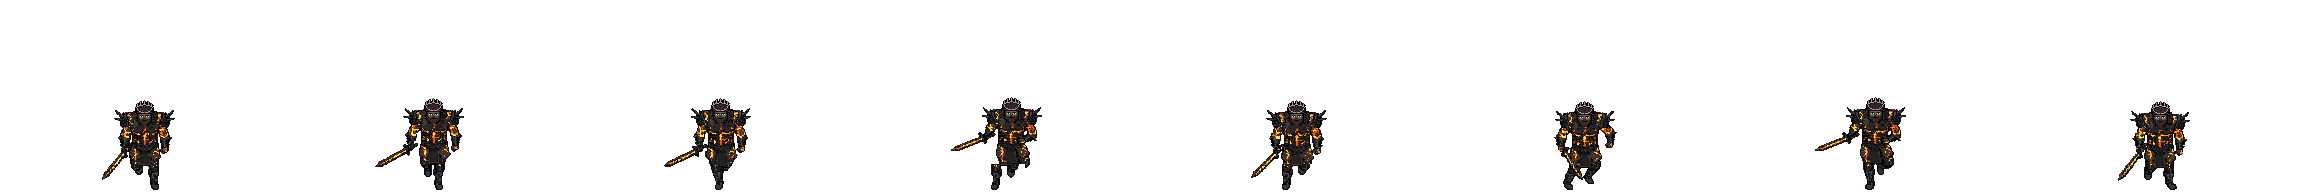
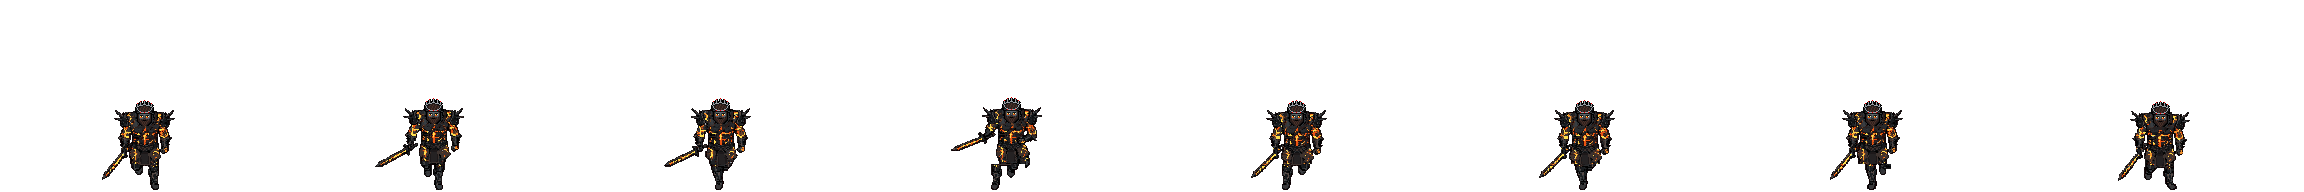
Art: the boss's walks and runs review fix: one sword, feet that travel, one head per view (Task A3)
- Side walk and side run remade with Higgsfield (4 pictures, 6 credits) over new guides B31/B32 with the
  greatsword carried off his legs: one sword in every frame, and each cycle built from Gemini's figures in
  step order so the planted boot moves back frame by frame (run: contact, passing, flight, reach; flights
  4 px off the floor).
- Back run: frame 1 gets frame 0's sword; frame 5's boots back on the floor (headlock.py --floor-half).
- Front run: frames 5-6 take bodies 8 and 9, so the sword no longer pops across his legs.
- Front walk: the blade swings 10 degrees out and in with each step.
- Back views: one head (the back run's hair under the idle's crown, spikes, red tips and gems) for the run
  and the walk; side views share the walk's head with red tips (head_B.png, head_S.png).
- Runs at 14 fps (the side's planted boot moves 12 px a frame: his pace, 5.28 m/s).
- New: art/tools/rekey.py (non-magenta backgrounds), headlock.py --align and --floor-half, and a cleaner
  removal of a frame's own head round the pasted one.

Changed region(s): [[0.7812, 0.5312, 0.8438, 0.9375], [0.6562, 0.5625, 0.7188, 1.0]]

diff --git a/art/tools/headlock.py b/art/tools/headlock.py
@@ -30,6 +30,10 @@
 #   away). --thick: the lowest pixel means the lowest row with 3 or more pixels side by side (a boot, not the spear's
 #   butt). --air K:N,K:N: then frame K's feet N px above that row (a flight frame; or the front and back runs' passing
 #   frames standing on the feet line N rows above a forward foot that reaches toward the camera: give the key "below": N).
+#   --floor-half W: only columns within W px of the head count for that lowest pixel (front and back views: a sword tip
+#   lower than the boots then stays below the line instead of lifting the boots off it).
+#   --align FILE:FRAME:X0,Y0,X1,Y1: find each frame's head with that head instead (one of the sheet's own heads, at the
+#   same spot in its cell as --src's): a --src head redrawn by hand (the idle's crown on a back view) matches badly.
 #   --pad N: how far round the pasted head the frame's own head pixels are cleared (3). Self-check: headlock.py --selftest
 import argparse, math, os, sys
 import numpy as np
@@ -131,7 +135,9 @@ def lock(f, st, dx, dy, front=None, pad=3, clear=None):
         size = ndimage.sum(dark, lab, range(1, n + 1))
         gone |= np.isin(lab, 1 + np.nonzero(size < 20)[0])     # scraps of its own outline (a fist or the spear is bigger)
     out = f.copy()
-    edge = gone & ndimage.binary_dilation(~on, FOUR)
+    lab, _ = ndimage.label(gone | ~on, FOUR)    # its own head sticking out goes, even 2 px deep (an outline 1 px in)
+    ext = np.unique(lab[~on])
+    edge = gone & np.isin(lab, ext[ext > 0])
     out[edge] = 0
     hole = gone & ~edge
     keep = (out[..., 3] > 0) & ~hole
@@ -159,15 +165,19 @@ def main():
     p.add_argument('--mane'); p.add_argument('--clear'); p.add_argument('--chest')
     p.add_argument('--pad', type=int, default=3); p.add_argument('--floor', type=int); p.add_argument('--sink', type=int)
     p.add_argument('--thick', action='store_true'); p.add_argument('--air'); p.add_argument('--bob-max', type=int)
+    p.add_argument('--floor-half', type=int); p.add_argument('--align')
     A = p.parse_args()
     ints = lambda s: [int(v) for v in s.split(',')] if s else None
     cw, ch = ints(A.cell); box = ints(A.box)
     src = np.asarray(Image.open(A.src).convert('RGBA'))[:ch, A.src_frame * cw:(A.src_frame + 1) * cw]
     line = lambda s: [float(v) for v in s.split(',')] if s else None
-    head = stamp_of(src, box, A.luma, line(A.mend), line(A.cut))
+    head = stamp_of(src, box, A.luma, line(A.mend), line(A.cut)); found = head
+    if A.align:                                 # FILE:FRAME:X0,Y0,X1,Y1, a head drawn like the sheet's, at --src's spot
+        af, ak, ab = A.align.split(':'); ak = int(ak)
+        found = stamp_of(np.asarray(Image.open(af).convert('RGBA'))[:ch, ak * cw:(ak + 1) * cw], ints(ab))
     a = np.asarray(Image.open(A.sheet).convert('RGBA')).copy(); n = a.shape[1] // cw
     fs = [defringe(a[:, k * cw:(k + 1) * cw], A.fringe) if A.fringe else a[:, k * cw:(k + 1) * cw] for k in range(n)]
-    offs = [align(f, head, A.search) for f in fs]; stamps = []
+    offs = [align(f, found, A.search) for f in fs]; stamps = []
     if A.mane:                                  # frame K's mane, moved into the source's place (the head's offsets)
         mx0, my0, mx1, my1, mk, ms, mf = line(A.mane); mk = int(mk)
         mane = shift(mane_of(fs[mk], [int(mx0), int(my0), int(mx1), int(my1)], ms), -offs[mk][0], -offs[mk][1])
@@ -192,7 +202,10 @@ def main():
     if A.floor is not None:
         air = {int(k): int(v) for k, v in (kv.split(':') for kv in A.air.split(','))} if A.air else {}
         for k in range(n):
-            f = a[:, k * cw:(k + 1) * cw]; d = A.floor - air.get(k, 0) - feet_row(f, A.thick)
+            f = a[:, k * cw:(k + 1) * cw]; g = f
+            if A.floor_half:                    # only the boots count: a blade tip further out may go below the line
+                c = offs[k][0] + (box[0] + box[2]) // 2; g = f[:, max(0, c - A.floor_half):c + A.floor_half + 1]
+            d = A.floor - air.get(k, 0) - feet_row(g, A.thick)
             if feet_row(f, False) + d > ch - 1:
                 print('frame', k, 'WARNING:', feet_row(f, False) + d - ch + 1, 'rows pushed out of the cell')
             a[:, k * cw:(k + 1) * cw] = shift(f, 0, d); drop[k] += d

diff --git a/art/tools/rekey.py b/art/tools/rekey.py
@@ -1,0 +1,38 @@
+# A Higgsfield strip whose background came back grey, lilac, pink or a white-pink gradient instead of #FF00FF -> the same
+# strip on flat #FF00FF, so sprites.py keys it out. The background is every light, unsaturated or pinkish pixel joined to
+# the picture's border, and any near-white patch bigger than a catch-light (background seen through a gap); the figures'
+# dark 1 px outline closes them off, so their lava (saturated orange, little blue) stays.
+# Usage: uv run --with pillow --with numpy --with scipy python art/tools/rekey.py <raw.png> <out.png>   (--selftest checks it)
+import sys
+import numpy as np
+from PIL import Image
+from scipy import ndimage
+
+
+def rekey(a):
+    a = a[..., :3].astype(int); r, g, b = a[..., 0], a[..., 1], a[..., 2]
+    light = (a @ [30, 59, 11]) / 100 > 100
+    cand = light & ((a.max(-1) - a.min(-1) < 60) | ((r > 140) & (b > 140) & (g < np.minimum(r, b))))
+    lab, _ = ndimage.label(cand)
+    edge = np.unique(np.concatenate([lab[0], lab[-1], lab[:, 0], lab[:, -1]]))
+    bg = np.isin(lab, edge[edge > 0])
+    L = (a @ [30, 59, 11]) / 100; idx = np.arange(1, lab.max() + 1)
+    size, lum = ndimage.sum(cand, lab, idx), ndimage.mean(L, lab, idx)
+    bg |= np.isin(lab, idx[(size > 80) & (lum > 200)])     # background seen through a gap (arm and body), not an eye's catch-light
+    out = a.copy(); out[bg] = (255, 0, 255)
+    return out.astype(np.uint8), bg.mean()
+
+
+def selftest():
+    a = np.full((20, 20, 3), (215, 150, 210), np.uint8); a[5:15, 5:15] = (10, 10, 10); a[8:12, 8:12] = (250, 220, 80)
+    o, f = rekey(a)
+    assert (o[0, 0] == (255, 0, 255)).all() and (o[10, 10] == (250, 220, 80)).all() and (o[5, 5] == (10, 10, 10)).all()
+    print('selftest ok')
+
+
+if __name__ == '__main__':
+    if '--selftest' in sys.argv:
+        selftest()
+    else:
+        o, f = rekey(np.asarray(Image.open(sys.argv[1]).convert('RGB')))
+        Image.fromarray(o).save(sys.argv[2]); print('background %.0f%% of the picture' % (100 * f))

diff --git a/docs/PROGRESS.md b/docs/PROGRESS.md
@@ -47,28 +47,38 @@ The 2.5D pixel-art version of Tales of Vulcan, in the style of Alabaster Dawn, w
 ![Elvis's walks, front, side and back, 4x](progress/2026-10-25_elvis_walks.gif)
 ![The new back run in the game, 3x crops of frames 100-175 of the bot's fight](progress/2026-10-25_elvis_run_B_in_game_fix.png)
 
-### 25 Oct 2026: the possessed Vulcan runs and walks in all three views (Task A3, Higgsfield)
+### 25 Oct 2026: the possessed Vulcan runs and walks in all three views (Task A3, Higgsfield; review fix: one sword, feet that travel, one head per view)
+- **Review fix (evening):** the reviewer found 2 high and 7 medium problems; all are fixed (picture below).
+  - **The side walk held two greatswords** in 2 of its 8 frames and stood in one wide stance in 7 of them, so his feet slid. It is remade: a new guide with the blade trailing flat behind him, off his legs (`art/guides/B32`), and a prompt that asks for one sword and different feet in every figure. Now he holds one sword in every frame, and the heel lands ahead, his weight rolls over it, the back leg swings through and reaches for the next step. The planted boot moves back 15, 14 and 8 px a frame.
+  - **The side run's foot contacts didn't form a cycle** (the planted boot stood still for 3 frames, then the contact jumped ahead and behind). It is remade too (`art/guides/B31`, the sword carried level behind him), and built from the four figures that make one real step: contact, passing (the planted boot 12 px further back), flight and reach, with his boots 4 px off the floor in both flight frames.
+  - **From behind, the run's frame 1 had no sword:** frame 0's greatsword is now in his fist. **Frame 5 floated 2 px** because its sword tip set the floor: only the boots count now (`headlock.py --floor-half`).
+  - **The front run's sword popped** across his legs for one frame: that frame now has the body of the frame before it, so the sword swings out, high, then down. **The front walk's sword never moved:** its blade now swings 10 degrees out and in with each step.
+  - **From behind** the walk's head was a flat block (a helmet), and the run's crown had lost its spikes and gems. Both back views now wear one head: the back run's near-black hair under his idle's own crown (ring, five spikes with red tips, the gems). From the side the run and the walk also share one head (the walk's, with its spike tips red again), so walking into a run never changes his head.
+  - Two new tools: `art/tools/rekey.py` (3 of the 4 new pictures came back on grey, lilac or a white-pink gradient instead of magenta) and `headlock.py --align` (finds each frame's head with one of Gemini's own heads, since a hand-built head matched 7 px off).
 - **What:**
-  - **His runs** (`run_F`, `run_S`, `run_B`) are new: heavy full strides with bent knees, the feet travelling forward and back, his free arm pumping, the greatsword swinging with the stride (from the side it rides up behind him and swings down ahead of him; from the front and behind it swings at his side), his body leaning and bobbing up to 4-5 px. 8 frames at 13 fps in every view. Until now he glided across the arena in his standing master.
+  - **His runs** (`run_F`, `run_S`, `run_B`) are new: heavy full strides with bent knees, the feet travelling forward and back, his free arm pumping, the greatsword swinging with the stride (from the side it is carried level behind him; from the front and behind it swings at his side), his body leaning and bobbing. 8 frames at 14 fps in every view. Until now he glided across the arena in his standing master.
   - **His walks** (`walk_F`, `walk_S`, `walk_B`): slow, weighty steps, the greatsword carried low and trailing; from the front 4 frames at 5 fps, from the side and behind 8 frames at 10 fps (one cycle in 0.8 s in every view). The fight never walks him yet (his pace and approach are both faster than `Vulcan.RUN_FROM`, so he always runs); the walks are ready for cutscenes and slow approaches.
-  - **His crown, face and beard never change between frames:** from the front every frame wears his idle's own head (the hand-drawn crown ring, molten eyes and beard); from the side and behind, where he has no idle yet, every frame wears the cleanest head Gemini drew for that sheet. Every frame is locked to his palette and stands on his idle's feet row.
+  - **His crown, face and beard never change between frames:** from the front every frame wears his idle's own head (the hand-drawn crown ring, molten eyes and beard); from the side and behind, where he has no idle yet, every frame wears one head per view (`art/vulcan_boss/head_S.png`, `head_B.png`), the same in the run and the walk. Every frame is locked to his palette and stands on his idle's feet row.
   - **From the front Gemini lifted the same leg in almost every figure** (three tries, even with each figure's pose written out), so a new tool, `art/tools/legswap.py`, gives the other half of the cycle that frame's legs mirrored: now the left boot lifts, then the right. The back walk got the same fix.
 - **Why:** Danyal: "make it so they run and not just take 1 step of a pixel each"; the boss's walk and run came first in this batch because he glided in his master.
-- **How:** new guides from the library's Jog Forward (`HK Boss Run` in `art/tools/hand_keys.json`: the stride and lean eased only 30% toward standing, a full arm swing) and Walk Forward, each packed as one row (`art/guides/B25`-`B30`: a two-row sheet came back with the second row smaller and shorter-legged, so no one feet line fitted it). Higgsfield's `nano_banana_2_1` painted them: 28 pictures (42 credits) for the six sheets, most of them lessons (in `art/tools/README.md`). The clean-up is two scripts, `art/vulcan_boss/make_runs.sh` and `make_walks.sh`.
-- **Where:** `art/vulcan_boss/run_*.png`, `walk_*.png`, `manifest.json`, `notes.md` (every raw kept or dropped and why), `make_runs.sh`, `make_walks.sh`, `raw/run_*`, `raw/walk_*`; `art/tools/legswap.py`, `hand_keys.json`, `guide_jobs.json`, `README.md`, `gemini_queue.md` (B02 done); `art/guides/B25`-`B30`, `packs.txt`.
-- **Checked:** every sheet at 1x, 3x and 4x next to `idle_F`: the same size and build, the head the same pixels in every frame of a view, every colour in `palette.png`, alpha only on or off, every frame's lowest pixel a boot on row 189; 58 tests pass. In the game (`bot=boss`) he runs at Elvis from the plinth in `run_F` and stops for his slam (picture: the camera's top edge cuts his crown at that moment).
-- **Claude's call:** the runs play 8 frames at 13 fps: from the side a step is about 55 px, so at his 5.3-5.8 m/s (176 px/s) two steps take about 0.63 s and the feet keep up with the floor. Phase two speeds his run and the sprite by the same 1.3.
-- **Claude's call:** the walks take 0.8 s a cycle (about 2 m/s, a heavy walk), with the front walk 4 frames: the cleanest front picture had 4 figures, each boot lifting in turn.
+- **How:** new guides from the library's Jog Forward (`HK Boss Run` in `art/tools/hand_keys.json`: the stride and lean eased only 30% toward standing, a full arm swing) and Walk Forward, each packed as one row (`art/guides/B25`-`B30`: a two-row sheet came back with the second row smaller and shorter-legged, so no one feet line fitted it). Higgsfield's `nano_banana_2_1` painted them: 28 pictures (42 credits) for the six sheets, most of them lessons (in `art/tools/README.md`), and 4 more (6 credits) for the review's side remakes. The clean-up is two scripts, `art/vulcan_boss/make_runs.sh` and `make_walks.sh`.
+- **Where:** `art/vulcan_boss/run_*.png`, `walk_*.png`, `head_S.png`, `head_B.png`, `manifest.json`, `notes.md` (every raw kept or dropped and why), `make_runs.sh`, `make_walks.sh`, `raw/run_*`, `raw/walk_*` (`run_S_h6`, `walk_S_h7` are the new side raws); `art/tools/legswap.py`, `rekey.py`, `headlock.py`, `hand_keys.json`, `guide_jobs.json`, `README.md`, `gemini_queue.md` (B02 done); `art/guides/B25`-`B32`, `packs.txt`.
+- **Checked:** every sheet at 1x, 3x and 4x next to `idle_F`: the same size and build, the head the same pixels in every frame of a view (and the same head in the run and the walk of a view), every colour in `palette.png`, alpha only on or off, no magenta, one sword in every frame; front and back: every frame's lowest boot on row 189; side: the planted boot measured frame by frame (above), the run's flights 4 px up; 58 tests pass. In the game (`bot=boss`) he runs at Elvis from the plinth in `run_F` and stops for his slam (picture: the camera's top edge cuts his crown at that moment; taken before the review fix).
+- **Claude's call:** the runs play 8 frames at 14 fps (13 before the fix): from the side the planted boot moves 12 px from contact to passing, 168 px/s at 14 fps, his pace (5.28 m/s = 169 px/s at 32 px/m); at his approach (5.8 m/s) it slips about 10%. Phase two speeds his run and the sprite by the same 1.3.
+- **Claude's call:** the side run is one real step drawn twice (Gemini's other four figures were the same mid-stance with the boot standing still), so the same leg leads both steps; in his dark armour at 90 px the near and far leg look alike. The side walk likewise repeats its passing and reaching frames, with a different heel-down frame for each step.
+- **Claude's call:** the walks take 0.8 s a cycle in every view, with the front walk 4 frames (the cleanest front picture had 4 figures, each boot lifting in turn). From the side the feet keep up at about 2.8 m/s (9 px a frame at 10 fps), below `Vulcan.RUN_FROM`; at each step's end the back toe holds one frame while the other heel lands.
+- **Claude's call:** from behind he wears the same crown as from the front (ring, five spikes with red tips, the gems), not a crown worked out from the back: the spiky ring is what marks him, and Gemini's back crowns had lost it.
 - **Claude's call:** he stands 90 px at his tallest running frame (his standing master is 88), and the front and back sheets are widened 1.1 and 1.25 times (the run) and 1.08 times (the back walk), because Gemini drew those views narrower at the pauldrons than the master.
 - **Claude's call:** a frame whose head dips more than 4 px under the others is lifted (`--bob-max 4`, as Elvis's runs): only one back-run frame, 2 px, its feet then just off the floor.
 - **Claude's call:** the feet are on `idle_F`'s row 189, not the row 190 that `sprites.py` and `breathe.py` use, so starting and stopping don't jump a pixel. Later boss sheets should do the same (`headlock.py --floor 189`), or `idle_F` moves down a row and these sheets with it.
-- **Claude's call:** the side and back heads are Gemini's own (no `idle_S` or `idle_B` exists yet). When B01 makes those idles, they should take these run heads, so the boss looks the same standing and running. From behind the walk's head (the back of the head drawn as a block under the crown) differs from the run's (hair), so a walk turning into a run from behind changes it.
-- **Left as it is:** the armour's lava cracks are Gemini's per frame, so they shimmer a little; the body isn't frozen. The back run's crown has no red gems. The stride.py walks in the old queue are not needed.
-- **Not checked:** the side and back runs and every walk in the moving game (the `bot=boss` run is the front one; the bot's fight keeps Elvis close, so the boss rarely runs).
+- **Claude's call:** the side and back heads are Gemini's own (no `idle_S` or `idle_B` exists yet). When B01 makes those idles, they should take `head_S.png` and `head_B.png`, so the boss looks the same standing and running.
+- **Left as it is:** the armour's lava cracks are Gemini's per frame, so they shimmer a little; the body isn't frozen. From the front the walk's free arm swings only a little. The stride.py walks in the old queue are not needed.
+- **Not checked:** the side and back runs and every walk in the moving game (the `bot=boss` run is the front one; the bot's fight keeps Elvis close, so the boss rarely runs); the GIFs are checked by their frame times, not watched.
 
 ![The boss's runs, front, side and back, 4x](progress/2026-10-25_boss_runs.gif)
 ![The boss's walks, front, side and back, 4x](progress/2026-10-25_boss_walks.gif)
 ![In the game, 3x: three frames of his front run from the plinth at Elvis](progress/2026-10-25_boss_run_in_game.png)
+![Review fix, 3x: the side run's step (contact, passing, flight, reach), the side walk's step with one sword, the back run's first four frames with the sword in frame 1 and the idle's crown](progress/2026-10-25_boss_walk_run_review_fix.png)
 
 ### 25 Oct 2026: Elvis really runs, and walks, in all three views (Task A3, Higgsfield)
 - **What:**

diff --git a/art/vulcan_boss/notes.md b/art/vulcan_boss/notes.md
@@ -77,54 +77,97 @@ uv run --with pillow --with numpy --with scipy python art/sprites.py art/vulcan_
 
 # Runs (run_F, run_S, run_B): 25 Oct 2026, Higgsfield
 
-Built by `make_runs.sh` (every command, in order). 8 frames each, 13 fps, loop.
+Built by `make_runs.sh` (every command, in order). 8 frames each, 14 fps, loop.
 
 - **Guides:** `HK Boss Run` (`art/tools/hand_keys.json`): Jog Forward with the spine and legs eased only 30% toward
   Idle, the free arm swinging from behind him to chest height ahead, the sword fist swinging opposite, the greatsword
   carried at `--carry 0.3,-0.5,-0.8`. Packed one row each: `art/guides/B25_boss_run_F.png` (8:1),
   `B26_boss_run_S.png` (8:1), `B27_boss_run_B.png` (4:1) (`packs.txt`). Image 2 is `art/guides/ref_vulcan_boss.png`.
-- **Raws kept:** `raw/run_S_h4.png` (8:1, a pure side view with full strides; the sword rides up behind him for 5
-  frames and swings down ahead for 3), `raw/run_B_h2.png` (4:1, a clean back cycle: left leg up, passing, right leg
-  up, passing, the free arm swinging up and the sword swinging), `raw/run_F_h6.png` (8:1; Gemini drew 10 figures).
+- **Side, remade after the review (25 Oct evening):** `art/guides/B31_boss_run_S.png` (8:1), the same `HK Boss Run`
+  with the greatsword carried level behind him, off his legs (`--carry 0.3,-0.85,0.45`, `guide_jobs.json`). Prompt: the
+  queue's "Repaint image 1" one, plus "PURE SIDE VIEW ... facing right", the legs copying the mannequins' (one boot
+  planted while the other swings through, the planted boot further back in each next figure, some figures with both
+  boots off the ground, the feet in a different place in every figure) and "ONE greatsword ... never a second blade,
+  never a blade across his legs". Two pictures: `raw/run_S_h6.png` kept (one level sword in every frame, a real run;
+  on a white-pink gradient, so `art/tools/rekey.py` puts it on magenta first), `run_S_h5` dropped (the sword missing in
+  one frame, level in another). The old side run (`raw/run_S_h4.png`, B26) is no longer used: its sword crossed his legs
+  for 3 frames and its planted boot held still for 3 frames, then the contacts jumped.
+- **Raws kept:** `raw/run_S_h6.png` (above), `raw/run_B_h2.png` (4:1, a clean back cycle: left leg up, passing, right
+  leg up, passing, the free arm swinging up and the sword swinging), `raw/run_F_h6.png` (8:1; Gemini drew 10 figures).
 - **Tried and dropped** (not kept): side 2x4 (row 2 smaller, boots 8-12 px higher), side 4:1 (figures touching), side
   8:1 once in a three-quarter view; front 2x4 (twice almost standing, once a deep squat every other frame), front
   4:1 and 21:9 (touching, once another man), front 8:1 three times with the same leg lifted.
 - **Clean-up:** `sprites.py --anchor body --height 90` (his tallest running frame 90 px from the crown's spikes to
   the boots; the standing master is 88), `--widen 1.1` from the front and `--widen 1.25` from behind (Gemini's front and
   back figures came out narrower at the pauldrons than the master: 55 and 45 px against 63). From the front the frames
-  are Gemini's 9, 0, 3, 4, 8, 6, 4, 5, and frames 3 and 4 take the legs of 1 and 9 mirrored (`legswap.py`), so the
-  cycle goes left leg up, up, passing, right leg up, up, up, passing, left leg
-  rising. Then `headlock.py`: from the front the idle's own head (the master's crown ring, eyes and beard, box
-  134,102,152,127 of `idle_F.png`), from the side and from behind the cleanest Gemini head of the sheet (side frame 1,
-  back frame 3), pasted where each frame's head is; `--floor 189` (the idle's feet row), `--bob-max 4`.
-- **Checked:** every colour in `palette.png`, alpha only on or off, every frame's lowest pixel on row 189 (back frame 1
-  lifted 2 px, a flight frame), the head bob within 4 px from the front and behind and 5 px from the side, the head the
-  same pixels in every frame of a view. At 1x, 3x and 4x next to `idle_F`.
-- **fps:** a step is about 55 px (heel to heel in the side frames) and he runs at 5.3-5.8 m/s (176 px/s), so a cycle
-  of two steps takes about 0.63 s: 8 frames at 13 fps. Phase two speeds both his run and the sprite by the same 1.3.
+  are Gemini's 9, 0, 3, 4, 8, 8, 9, 5: frames 3 and 4 take the legs of 1 and 9 mirrored (`legswap.py`), so the cycle
+  goes left leg up, up, passing, right leg up, up, up, passing, left leg rising; frames 5 and 6 are bodies 8 and 9 on
+  the legs of 3 and 4 (Gemini's figure 6 laid the sword across his legs, a pop the review found), so the sword swings
+  out, high, down, and stays low for 5 frames.
+- **Side clean-up:** `rekey.py`, then `sprites.py --anchor strip` (each figure keeps the height Gemini drew it at, so
+  the flights stay off the floor) `--pick 7,5,6,4,7,5,6,4`: Gemini's figures 7, 5, 6, 4 are contact (the front boot
+  down 22 px ahead of his hips), passing (that boot 13 px further back, under him), flight and reach, one step; the
+  other four figures are mid-stance poses with the planted boot in one place, which skated. The step is drawn twice.
+  After `headlock.py` the contact and passing boots sit on row 189 and the flights 4 px above it (2 px higher than
+  drawn), so his head bobs 2 px.
+- **Back, frame 1:** Gemini left both fists empty; frame 0's greatsword (right of x 163, from row 151 down) is pasted
+  into his right fist 3 px higher (`make_runs.sh`). **Back, frame 5:** its sword tip was the lowest pixel, so the
+  boots floated 2 px; `headlock.py --floor-half 20` now only counts the columns near his head, and the tip sits on rows
+  190-191 under the boots.
+- **Heads:** `headlock.py` pastes one head per view where each frame's head is: from the front the idle's own (box
+  134,102,152,127 of `idle_F.png`); from the side `head_S.png` (box 139,100,158,123), the side walk's frame 1 (its
+  crown the closest to the idle's), with the spike tips and the band's gems red again (the shrink had made them brown);
+  from behind `head_B.png` (box 131,98,153,118), the back run's frame 3 hair under the idle's own crown (ring, five
+  spikes with red tips, the band's gems), found in each frame with Gemini's own frame-3 head (`--align`), since the
+  redrawn head matches badly. Both are built by `make_runs.sh`. The side and back walks wear the same heads, so his
+  head never changes from walk to run. `--floor 189` (the idle's feet row), `--bob-max 4` (front and back).
+- **Checked:** every colour in `palette.png`, alpha only on or off, no magenta, the sheet sizes; front and back: every
+  frame's lowest boot on row 189 (back frame 1 lifted 2 px, a flight frame); side: the contact and passing boots on
+  row 189, the planted boot 166 then 154 (12 px), the flights 4 px up; the head the same pixels in every frame of a
+  view. At 1x, 3x and 4x next to `idle_F`.
+- **fps:** 14 in every view (was 13): from the side the planted boot moves 12 px from contact to passing, 168 px/s at
+  14 fps, his pace (5.28 m/s at 32 px/m = 169 px/s; at his approach, 5.8 m/s, it slips 10%). A step takes 0.29 s.
+  Phase two speeds both his run and the sprite by the same 1.3.
 - **Known:** the armour's lava cracks are Gemini's per frame, so they shimmer a little (the head is locked, the body is
-  not frozen); the back view's crown has no red gems (its source frame had none).
+  not frozen). From the side the same leg leads both steps (one step drawn twice); in his dark armour at 90 px the near
+  and far leg look alike.
 
 # Walks (walk_F, walk_S, walk_B): 25 Oct 2026, Higgsfield
 
-Built by `make_walks.sh`. A heavy walk, one cycle in 0.8 s (about 2 m/s): `walk_F` 4 frames at 5 fps, `walk_S` and
-`walk_B` 8 frames at 10 fps, loop. The fight never walks him yet (his pace and approach speeds are both above
-`Vulcan.RUN_FROM`, so he always runs); the walks are for cutscenes and slow approaches.
+Built by `make_walks.sh`, after `make_runs.sh`. A heavy walk, one cycle in 0.8 s: `walk_F` 4 frames at 5 fps,
+`walk_S` and `walk_B` 8 frames at 10 fps, loop. From the side the planted boot moves about 9 px a frame, so the feet keep
+up at about 90 px/s (2.8 m/s); he walks below `Vulcan.RUN_FROM` (4.5 m/s). The fight never walks him yet (his pace and
+approach speeds are both above `RUN_FROM`, so he always runs); the walks are for cutscenes and slow approaches.
+
+- **Side, remade after the review (25 Oct evening):** the old `walk_S` (`raw/walk_S_h5.png`, B29) held two greatswords
+  in frames 5-6 (the guide's blade crossing his legs and Gemini's own trailing one) and stood in one wide stance in 7
+  of 8 frames, so the feet never travelled. New guide `art/guides/B32_boss_walk_S.png` (8:1): Walk Forward with the
+  blade trailing flatter behind him (`--carry 0.3,-0.95,-0.2`). Prompt as the side run's, for "a slow, heavy WALK cycle,
+  two steps": the heel landing ahead, the weight rolling over it, the back leg swinging through, two figures with the
+  legs passing, never the same stance twice, ONE greatsword. Two pictures: `raw/walk_S_h7.png` kept (one sword in every
+  frame; a grey background, `rekey.py`), `walk_S_h8` dropped (two swords again in its last 3 figures). Clean-up:
+  `--pick 5,7,2,4,1,7,2,4`: Gemini's 5 (heel down ahead), 7 (weight on it), 2 (passing), 4 (reaching), then 1 (the
+  other heel down) and the same three. The planted boot moves back 15, 14 and 8 px, then holds one frame as the back
+  toe while the other heel lands (a 9 px slide at the end of each step).
+- **Front sword:** the review found the greatsword at one angle in all 4 frames. Its blade (left of x 126, from row
+  152 down) now turns about his fist 10 degrees out on frame 0 and 10 in on frame 2 (each boot's step), straight on the
+  passing frames: the tip swings about 6 px each way (`make_walks.sh`, nearest pixel, drawn only where nothing else is).
+- **Back head:** the walk's own head was a flat dark block under the crown (a helmet); it now wears `head_B.png`'s
+  crown and hair, placed 1 px right and 2 px up of the run's to sit on the walk's own crown (`head_B_walk.png` in
+  `art/_work/boss_walks/`), found in each frame with the walk's own frame-0 head (`--align`).
 
 - **Guides:** Walk Forward (CC0), the greatsword carried low (`--carry 0.3,-0.5,-0.8`, from the front
   `0.5,0.25,-0.85` so the blade shows beside him): `art/guides/B28_boss_walk_F.png` (4 poses: a boot lifted, passing,
   the other boot lifted, passing), `B29_boss_walk_S.png` (8:1), `B30_boss_walk_B.png` (4:1).
 - **Raws kept:** `raw/walk_F_h3.png` (16:9, 4 figures: the cleanest front figures of the batch, the master's build;
-  the lift is small, 7-9 px, as a slow walk's is), `raw/walk_S_h5.png` (8:1, a profile walk, the blade trailing behind
-  him and swinging forward at the end), `raw/walk_B_h3.png` (4:1).
+  the lift is small, 7-9 px, as a slow walk's is), `raw/walk_S_h7.png` (above; `walk_S_h5.png` is the old one, no
+  longer used), `raw/walk_B_h3.png` (4:1).
 - **Tried and dropped:** front 2x4 and 8:1 (standing still, once on a gradient), side 2x4 (row 2 smaller, the blade
   below the boots), side 8:1 and 4:1 (front or three-quarter views, figures touching, a two-tone background), back
   8:1 (a white-pink gradient), back 4:1 seed 4242 (figures touching, the legs hardly moving).
 - **Clean-up:** as the runs (`--height 90`, the back `--widen 1.08`, its frames 6 and 7 rebuilt with `legswap.py` so
-  each boot lifts three frames in turn), then `headlock.py`: the idle's head from the front; from the side and behind
-  the walk's own first frame (its heads differ from the run's: a profile turned a little more, the back of the head a
-  dark block under the crown, so a run's head would not fit). Feet on row 189, `--bob-max 4`.
-- **Checked:** every colour in `palette.png`, alpha only on or off, every frame's lowest pixel (a boot) on row 189,
-  heads within 4 px. At 1x, 3x and 4x next to `idle_F` and the runs.
-- **Known:** from behind the walk's head (a block) differs from the run's (hair), so a walk turning into a run from
-  behind changes the back of his head.
+  each boot lifts three frames in turn), then `headlock.py`: the idle's head from the front, `head_S.png` from the side
+  and `head_B.png` from behind (the runs' heads, so walking into a run never changes his head). Feet on row 189 (front
+  and back: only the boots count, `--floor-half 20`), `--bob-max 4`.
+- **Checked:** every colour in `palette.png`, alpha only on or off, no magenta, every frame's lowest boot on row 189,
+  one sword in every side frame, heads within 4 px. At 1x, 3x and 4x next to `idle_F` and the runs.

diff --git a/art/tools/README.md b/art/tools/README.md
@@ -2,6 +2,8 @@
 
 Python runs through `uv run --with pillow --with numpy --with scipy python ...` from the project folder.
 Blender is `"/mnt/c/Program Files/Blender Foundation/Blender 5.2/blender.exe"` and takes Windows paths.
+In a clone made by Windows git (`core.autocrlf` true) the `make_*.sh` scripts come out with CRLF line ends, which bash
+can't run: `tr -d '\r' < art/vulcan_boss/make_runs.sh | bash`.
 
 | Tool | What it does |
 | --- | --- |
@@ -9,8 +11,9 @@ Blender is `"/mnt/c/Program Files/Blender Foundation/Blender 5.2/blender.exe"` a
 | `guide_pack.py` | A `pose_strip.py` strip -> a compact guide for Gemini: every cell cropped to the same box (hips centred, feet on one line), scaled up, side by side on magenta. Several strips (one move's views) become rows at one scale; `strip.png:0-3` packs only those cells (a wide view as two rows); `--aspect 16:9` pads the picture; `--widen K` draws every cell K times as wide (a broader mannequin, so Gemini paints a broader man); it prints how tall a cell comes out in a 1376 px wide picture. The packed guides for Gemini are in `art/guides/` (`packs.txt` lists each one's rows) |
 | `breathe.py` | A still sprite (a master, or one clean Gemini view) -> a 2-frame breathing idle: everything above the belt 1 px lower in frame 1, nothing else changes. Writes the manifest entry |
 | `stride.py` | A still stance (or one good Gemini frame) -> a run cycle with no flicker: a JSON recipe cuts parts out by rows and columns, a spear's line, brightness (hair) or colour, and moves each part per frame (legs lifted in turn, knees and boots apart, the body bobbing and swaying, the spear bouncing a frame behind, the hair and cape swinging); parts can come from another sheet (the side run's legs from Gemini's frames, `idle_S`'s head); holes a moved part leaves are filled from the body next to them. Nothing is repainted, every colour must be in `palette.png`, and every frame must keep a foot on the feet line. Recipes: `art/elvis/stride_run_F.json`, `stride_run_S.json`, `stride_run_B.json`; the keys are at the top of the file |
-| `headlock.py` | One head for every frame of a Gemini sheet: the idle's own head (and hair) pasted where each frame's head is (found by matching), the frame's own head pixels round it cleared (bright ones and outline scraps; the body next to them fills the holes), so the face, the eyes and the hair are never repainted; `--front X` keeps the side walk's own hair behind the skull, `--luma` takes only the hair from a back view, `--mend` paints out the idle's spear across the hair, `--cut` leaves the idle's spear shaft out of the paste, `--mane` pastes one frame's streaming hair (stretched longer) on every frame and `--clear` removes each frame's own round it, `--chest` pastes one frame's breastplate on every frame (no trim shimmer), `--steady` keeps the head on one column, `--bob-max` lifts a squatting frame (the boss), `--sink` lowers a frame drawn too tall (its feet go under the line: give the key `"below"`), `--floor` puts the feet on a row (`--thick`: a boot, not the spear's butt) and `--air K:N` lifts frame K N px above it (flight frames; the front and back runs' passing frames onto a feet line N rows up), `--fringe` removes the clean-up ring; it prints each frame's head and feet rows. Recipes: `art/elvis/make_runs.sh`, `make_walks.sh`. `--selftest` checks it |
+| `headlock.py` | One head for every frame of a Gemini sheet: the idle's own head (and hair) pasted where each frame's head is (found by matching), the frame's own head pixels round it cleared (bright ones and outline scraps; the body next to them fills the holes), so the face, the eyes and the hair are never repainted; `--front X` keeps the side walk's own hair behind the skull, `--luma` takes only the hair from a back view, `--mend` paints out the idle's spear across the hair, `--cut` leaves the idle's spear shaft out of the paste, `--mane` pastes one frame's streaming hair (stretched longer) on every frame and `--clear` removes each frame's own round it, `--chest` pastes one frame's breastplate on every frame (no trim shimmer), `--steady` keeps the head on one column, `--bob-max` lifts a squatting frame (the boss), `--sink` lowers a frame drawn too tall (its feet go under the line: give the key `"below"`), `--floor` puts the feet on a row (`--thick`: a boot, not the spear's butt) and `--air K:N` lifts frame K N px above it (flight frames; the front and back runs' passing frames onto a feet line N rows up), `--fringe` removes the clean-up ring, `--floor-half` counts only the boots for `--floor`, `--align` finds the heads with one of the sheet's own heads (a head redrawn by hand matches badly); it prints each frame's head and feet rows. Recipes: `art/elvis/make_runs.sh`, `make_walks.sh`, `art/vulcan_boss/make_runs.sh`, `make_walks.sh`. `--selftest` checks it |
 | `legswap.py` | Front and back runs: each output frame is one frame's body above a row with another frame's legs below it (within W px of the body's centre), mirrored if asked, so the legs alternate where Gemini lifted the same leg in every front figure. Recipe: `art/vulcan_boss/make_runs.sh`. `--selftest` checks it |
+| `rekey.py` | A Higgsfield picture whose background came back grey, lilac, pink or a white-pink gradient -> the same picture on flat #FF00FF for `sprites.py`. `--selftest` checks it |
 | `band.py` | Cut one row of figures out of a Gemini picture that padded the strip with extra copies above and below: shapes reaching outside rows Y0..Y1 go (touching shapes are split first) |
 | `eyes.py` | Eye touch-ups for `sprites.py --touchup`: front frames get the master's own eye pixels where its head matches; `--side` finds the profile eye and draws a pupil and an ice-blue catch-light |
 | `gif.py` | Manifest keys -> a 4x GIF for `docs/progress/`, timed by fps and holds, on sand; `--row` plays several side by side; a `"below"` key is drawn that much lower, as the game places it |
@@ -160,6 +163,21 @@ The copy's textures are relative (`//textures/...`), so the script points them a
     the others fly 2-3 px up (`--air`). That stride matches the sprint (7.5 m/s, 20 px a frame at 12 fps, 27 at 9 fps).
   - Gemini repaints the breastplate, the mane and the face in every frame. Paste one of each on every frame
     (`--chest`, `--mane`, the idle's head); only the limbs, the cape and the spear then change.
+- **The boss's side run and walk, remade after the review (25 Oct evening, guides `B31`, `B32`):**
+  - **Check the feet, not just the poses.** Gemini draws most figures of a strip as one mid-stance pose (the planted boot
+    in one place for 3-4 figures, or one wide stance in 7 of 8), whatever the guide and the prompt say. Measure each
+    frame's boots on the floor row against his hips: a planted boot must move back about ground speed / fps a frame
+    (13 px at 14 fps for the boss's run). Then build the cycle from the figures that do: `sprites.py --pick` in step
+    order (contact, passing, flight, reach for a run; heel down, weight on it, passing, reaching for a walk), one step
+    drawn twice if needed.
+  - **Keep a run's flights:** `--anchor strip` (Gemini draws the figures on one ground line, flights off it), not
+    `--anchor body` or `headlock.py --floor`, which put every frame's lowest pixel on the floor, so the contacts jump.
+  - **A sword across the legs in the guide becomes a second sword.** Carry it off the legs (`--carry 0.3,-0.85,0.45`
+    level behind for a run, `0.3,-0.95,-0.2` trailing low for a walk) and say "ONE greatsword ... never a second blade".
+  - **Backgrounds:** 3 of 4 side pictures came back grey, lilac or a white-pink gradient. `rekey.py` puts them on
+    magenta (light, unsaturated or pinkish pixels joined to the border, and near-white gaps), then clean up as usual.
+  - **A redrawn head (the idle's crown on a back view) is found badly** by `headlock.py`'s matching (7 px off): pass
+    `--align` with one of the sheet's own heads at the same spot. A sword tip below the boots: `--floor-half 20`.
 
 ## Limits seen
 
